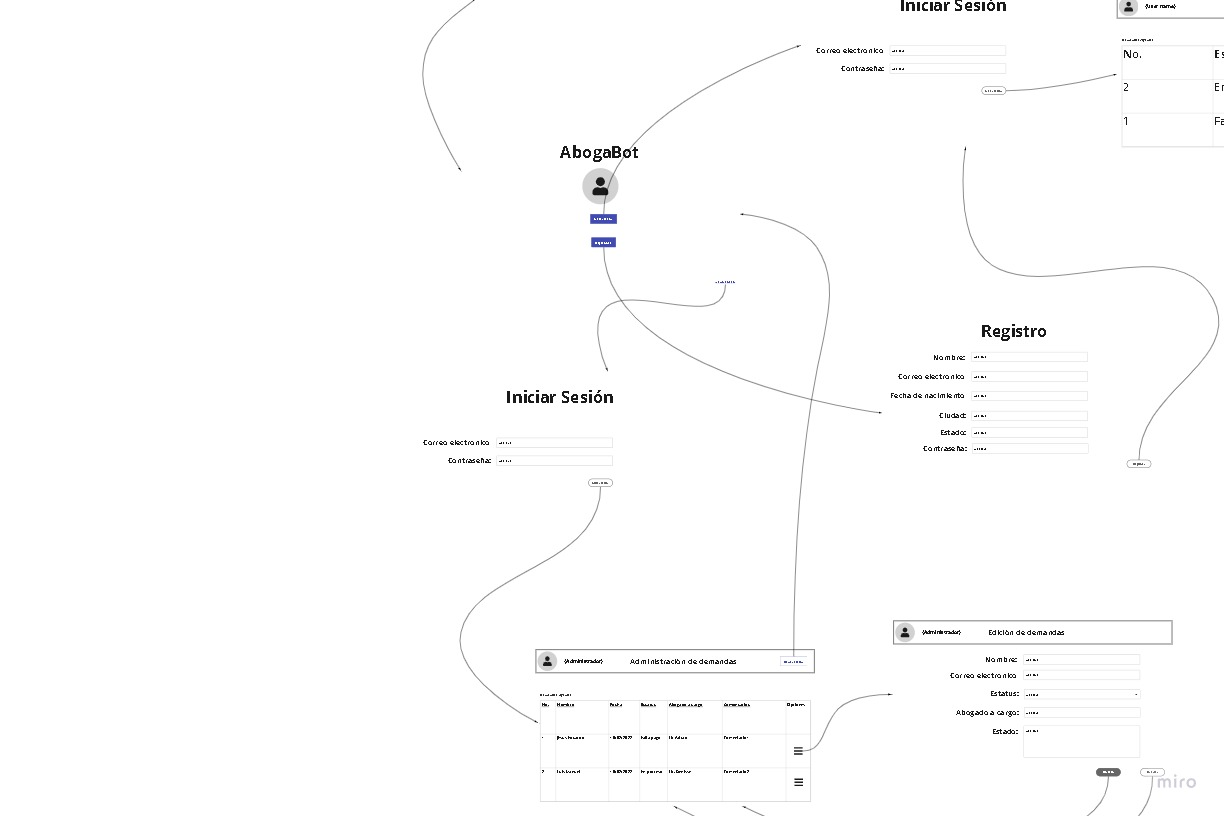
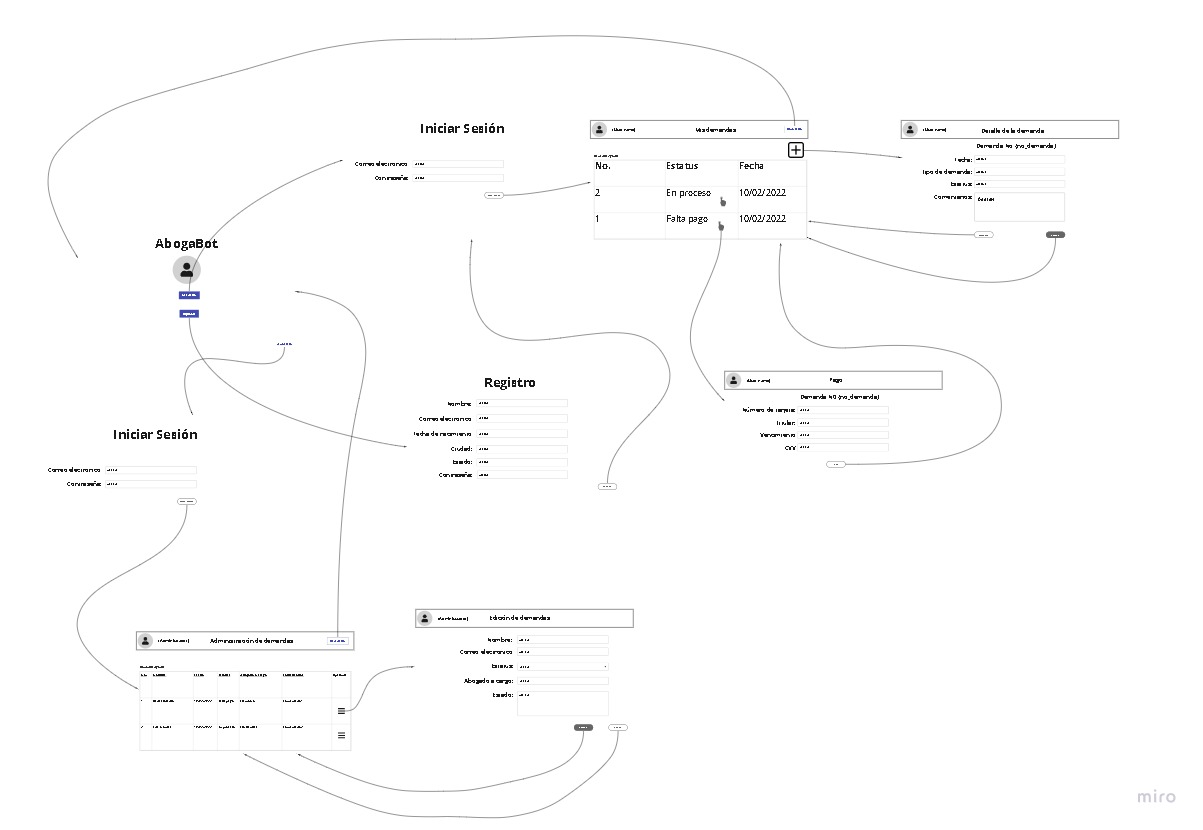
tres

diff --git a/paginas/wireframe.md b/paginas/wireframe.md
@@ -1,3 +1,3 @@
 # Wireframe UX
 
-<iframe width="768" height="432" src="https://miro.com/app/live-embed/uXjVOJg0594=/?moveToViewport=-7073,-2163,10928,4808" frameBorder="0" scrolling="no" allowFullScreen></iframe>
+![PublicoObjetivo](/resources/wireframing.jpg)
